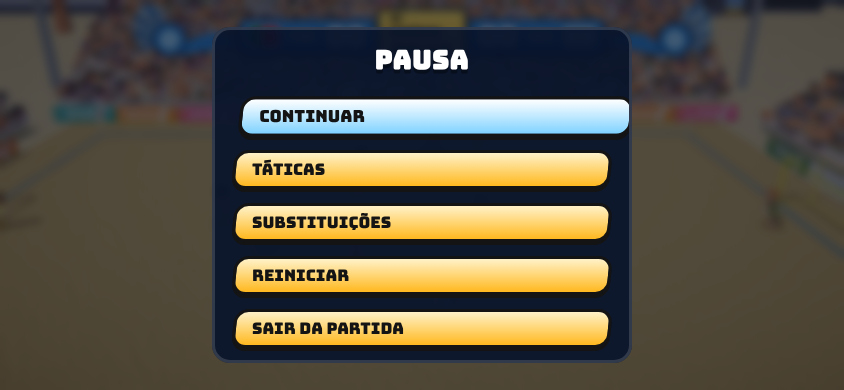
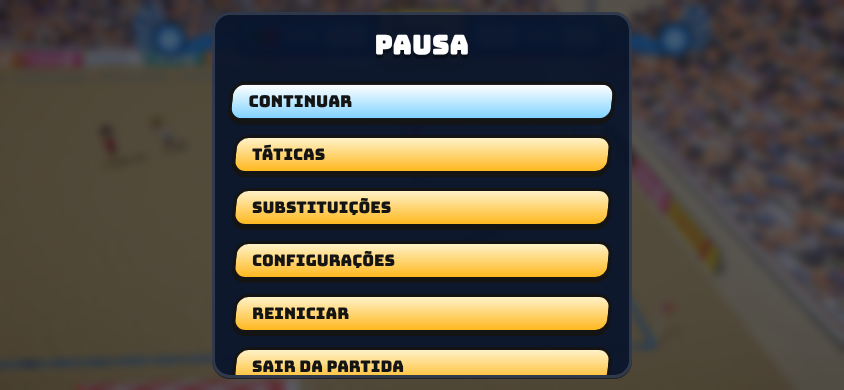
Configurações no menu de pausa (ESC / ❚❚)
- Trocar teclas, volume, dificuldade, troca automática e botões de toque sem sair da partida
- Voltar das configurações retorna à pausa; troca de versão não aparece no meio da partida
- QA pausemenu: remapeia PASSE pela pausa e volta ao jogo

Claude-Session: https://claude.ai/code/session_01SZRMGLNJbngvwk127EqV8r

diff --git a/src/ui/Flow.ts b/src/ui/Flow.ts
@@ -484,8 +484,8 @@ export class Flow {
     audio.play('ui_pop');
     const training = m.opts.mode === 'training' || m.opts.mode === 'mini';
     const opts: [string, () => void][] = training
-      ? [[t('resume'), () => this.unpause()], [t('quit'), () => { this.unpause(); this.fade(() => this.mainMenu()); }]]
-      : [[t('resume'), () => this.unpause()], [t('tactics'), () => this.tactics()], [t('subs'), () => this.subs()], [t('restart'), () => { this.unpause(); this.fade(() => { this.endMatch(); this.startMatch(); }); }],
+      ? [[t('resume'), () => this.unpause()], ['Configurações', () => this.options(true)], [t('quit'), () => { this.unpause(); this.fade(() => this.mainMenu()); }]]
+      : [[t('resume'), () => this.unpause()], [t('tactics'), () => this.tactics()], [t('subs'), () => this.subs()], ['Configurações', () => this.options(true)], [t('restart'), () => { this.unpause(); this.fade(() => { this.endMatch(); this.startMatch(); }); }],
         [t('quit'), () => { this.unpause(); this.fade(() => this.mainMenu()); }]];
     const el = html(`<div class="screen overlay"><div class="box panel"><h1 class="title">${t('pause')}</h1>${opts.map(([n]) => `<button class="btn"><span>${n}</span></button>`).join('')}</div></div>`);
     this.mount(el);
@@ -989,7 +989,14 @@ export class Flow {
   }
 
   // ------------------------------------------------------------------ opções
-  options() {
+  /** Opções. fromPause = aberto pelo menu de pausa (ESC / ❚❚): volta para a pausa em vez do menu principal. */
+  options(fromPause = false) {
+    const prevTick = this.tick, prevScene = this.scene;
+    const leave = () => {
+      settings.save(); audio.play('ui_back');
+      if (fromPause && this.match) { this.tick = prevTick; this.scene = prevScene; this.pause(); }
+      else { this.tick = undefined; this.fade(() => this.mainMenu()); }
+    };
     this.scene = 'options';
     const S = settings.data;
     type Opt = { k: string; get: () => string; step: (d: number) => void };
@@ -1002,7 +1009,7 @@ export class Flow {
     if (platform.mobile) optsL.push(
       { k: 'Botões na tela', get: () => ['Pequenos', 'Médios', 'Grandes'][S.touchSize ?? 1], step: (d) => { S.touchSize = (((S.touchSize ?? 1) + d + 3) % 3) as 0 | 1 | 2; } },
       { k: 'Vibração ao tocar', get: () => (S.vibrate === false ? 'Desligada' : 'Ligada'), step: () => { S.vibrate = S.vibrate === false; } });
-    optsL.push({ k: 'Versão do jogo', get: () => (platform.mobile ? 'Celular (toque para trocar)' : 'PC (clique para trocar)'), step: () => { settings.save(); platform.switchTo(platform.mobile ? 'pc' : 'mobile'); } });
+    if (!fromPause) optsL.push({ k: 'Versão do jogo', get: () => (platform.mobile ? 'Celular (toque para trocar)' : 'PC (clique para trocar)'), step: () => { settings.save(); platform.switchTo(platform.mobile ? 'pc' : 'mobile'); } });
     const labels: Record<string, string> = { up: 'Cima', down: 'Baixo', left: 'Esquerda', right: 'Direita', pass: 'Passe / trocar', shoot: 'Chute', lob: 'Lençol', trick: 'Firula', sprint: 'Correr', tackle: 'Carrinho', fire: 'Modo Fogo', pause: 'Pausa' };
     let waiting: string | null = null;
     let sel = 0;
@@ -1016,7 +1023,7 @@ export class Flow {
       el.querySelectorAll('.opt').forEach((o) => o.addEventListener('click', (e) => { sel = +(o as HTMLElement).dataset.i!; const r = (o as HTMLElement).getBoundingClientRect(); optsL[sel].step((e as MouseEvent).clientX > r.left + r.width / 2 ? 1 : -1); settings.save(); render(); }));
       el.querySelectorAll('.k').forEach((k) => k.addEventListener('click', () => { waiting = (k as HTMLElement).dataset.k!; input.anyKeyCode(); render(); }));
       el.querySelector('[data-a=reset]')?.addEventListener('click', () => { S.keys = { ...DEFAULT_KEYS }; settings.save(); render(); });
-      el.querySelector('[data-a=back]')!.addEventListener('click', () => { settings.save(); this.tick = undefined; this.fade(() => this.mainMenu()); });
+      el.querySelector('[data-a=back]')!.addEventListener('click', leave);
     };
     render();
     this.nav = undefined;
@@ -1030,7 +1037,7 @@ export class Flow {
       if (M.up) { sel = (sel + optsL.length) % (optsL.length + 1); render(); audio.play('ui_move', 0.4); }
       if (M.down) { sel = (sel + 1) % (optsL.length + 1); render(); audio.play('ui_move', 0.4); }
       if ((M.left || M.right) && sel < optsL.length) { optsL[sel].step(M.left ? -1 : 1); settings.save(); render(); audio.play('ui_tick', 0.5); }
-      if ((M.ok && sel === optsL.length) || M.back) { settings.save(); audio.play('ui_back'); this.tick = undefined; this.fade(() => this.mainMenu()); }
+      if ((M.ok && sel === optsL.length) || M.back) leave();
     };
   }
 

diff --git a/docs/QA.md b/docs/QA.md
@@ -1,6 +1,6 @@
 # QA ponta a ponta
 
-Executado em 2026-11-26 22:55 UTC com `node scripts/qa/run.cjs` (Chromium headless, build de produção).
+Executado em 2026-11-27 13:39 UTC com `node scripts/qa/run.cjs` (Chromium headless, build de produção).
 
 **22/22 suítes OK.** O monitor de invariantes roda a cada quadro em todas as suítes (bola/jogadores com posição válida e dentro do mundo,
 bola perto do dono, controle duplicado, time humano sem jogador, estados presos, bola morta sem ninguém ir buscar).
@@ -15,7 +15,7 @@ bola perto do dono, controle duplicado, time humano sem jogador, estados presos,
 | twoplayers | ✔ OK | 50s |
 | setpieces | ✔ OK | 58s |
 | fouls | ✔ OK | 57s |
-| pausemenu | ✔ OK | 37s |
+| pausemenu | ✔ OK | 41s |
 | cup | ✔ OK | 164s |
 | pens | ✔ OK | 74s |
 | training | ✔ OK | 32s |
@@ -24,7 +24,7 @@ bola perto do dono, controle duplicado, time humano sem jogador, estados presos,
 | memory | ✔ OK | 108s |
 | career | ✔ OK | 161s |
 | mobile | ✔ OK | 34s |
-| iphone | ✔ OK | 167s |
+| iphone | ✔ OK | 142s |
 | toques | ✔ OK | 532s |
 | goleiro | ✔ OK | 110s |
 | formatos | ✔ OK | 145s |
@@ -103,8 +103,12 @@ bola perto do dono, controle duplicado, time humano sem jogador, estados presos,
 
 - ✔ ESC pausa a partida
 - ✔ formação alterada pelo menu de táticas (2-2)
-- ✔ substituição troca o jogador em campo (CAJU → RAIO LASER)
+- ✔ substituição troca o jogador em campo (ROCHA → RAIO LASER)
 - ✔ continuar retoma a partida
+- ✔ menu de pausa tem "Configurações"
+- ✔ remapear PASSE pela pausa (agora KeyP)
+- ✔ voltar das configurações retorna à pausa ({"scene":"match","paused":true,"overlay":true})
+- ✔ partida continua depois das configurações
 - ✔ reiniciar começa uma nova partida
 
 ## cup

diff --git a/README.md b/README.md
@@ -60,7 +60,7 @@ npm run build
 | Pausa · pular cinemáticas/replays | Esc / Enter | Start |
 
 Finalizações são contextuais: com a bola no alto, **K** vira cabeçada (bola alta), **bicicleta** (de costas para o gol),
-**tesoura** (gol de lado), **voleio** ou **peixinho** (correndo para uma bola baixa). As teclas podem ser remapeadas em *Opções*.
+**tesoura** (gol de lado), **voleio** ou **peixinho** (correndo para uma bola baixa). As teclas podem ser remapeadas em *Opções* — ou no meio da partida: ESC → *Configurações* (volta para a pausa).
 Na tela "Quem joga com quem?" cada teclado/controle é movido para CASA, CPU ou FORA (até 2 jogadores locais).
 
 ### iPhone / Android (tela de toque)
